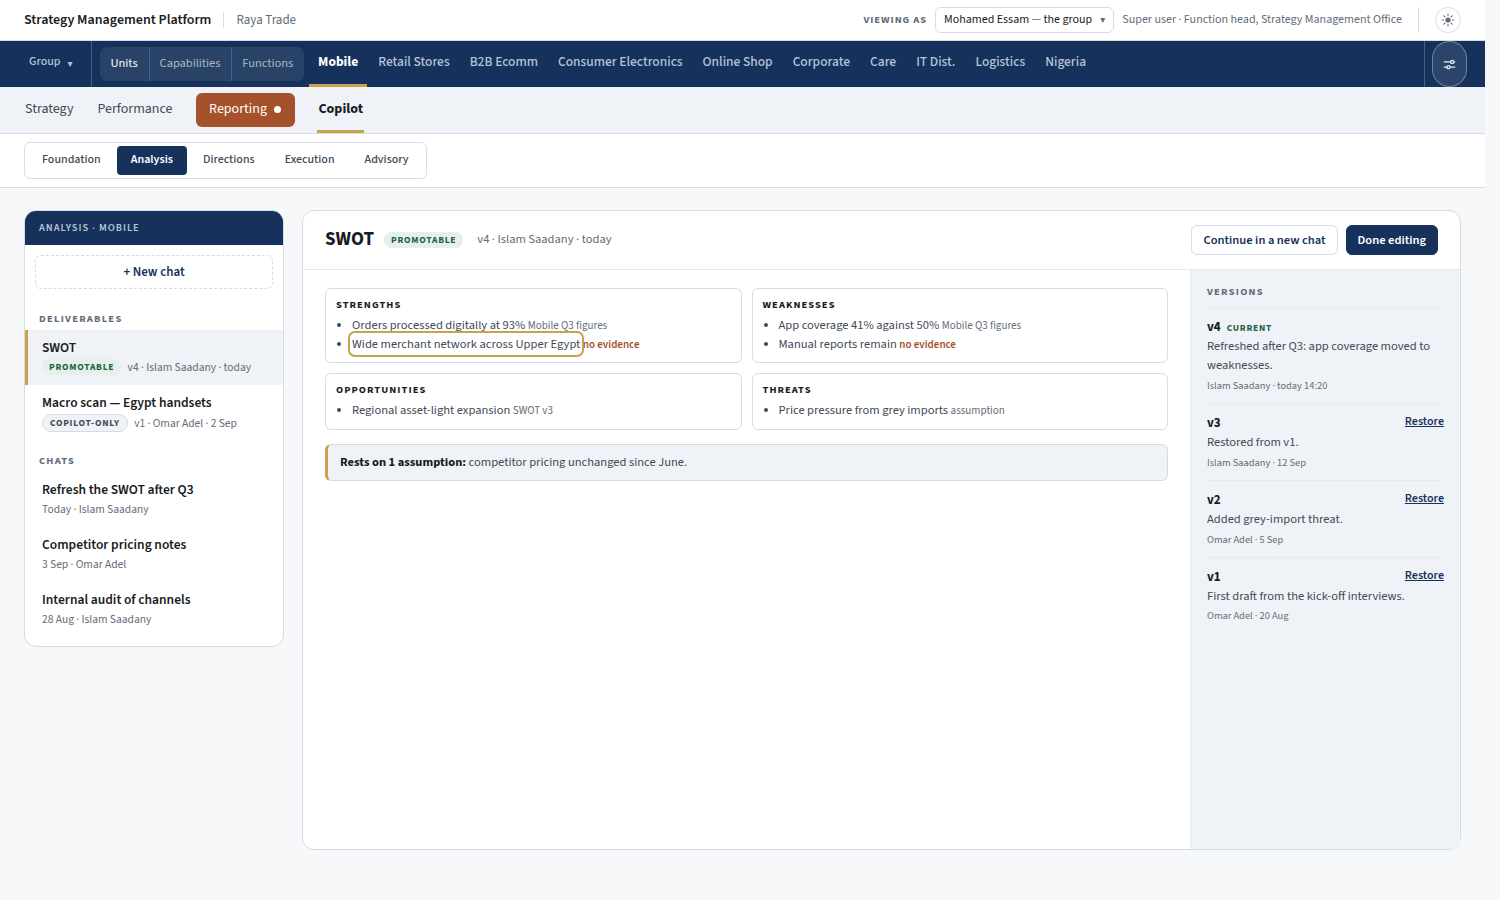
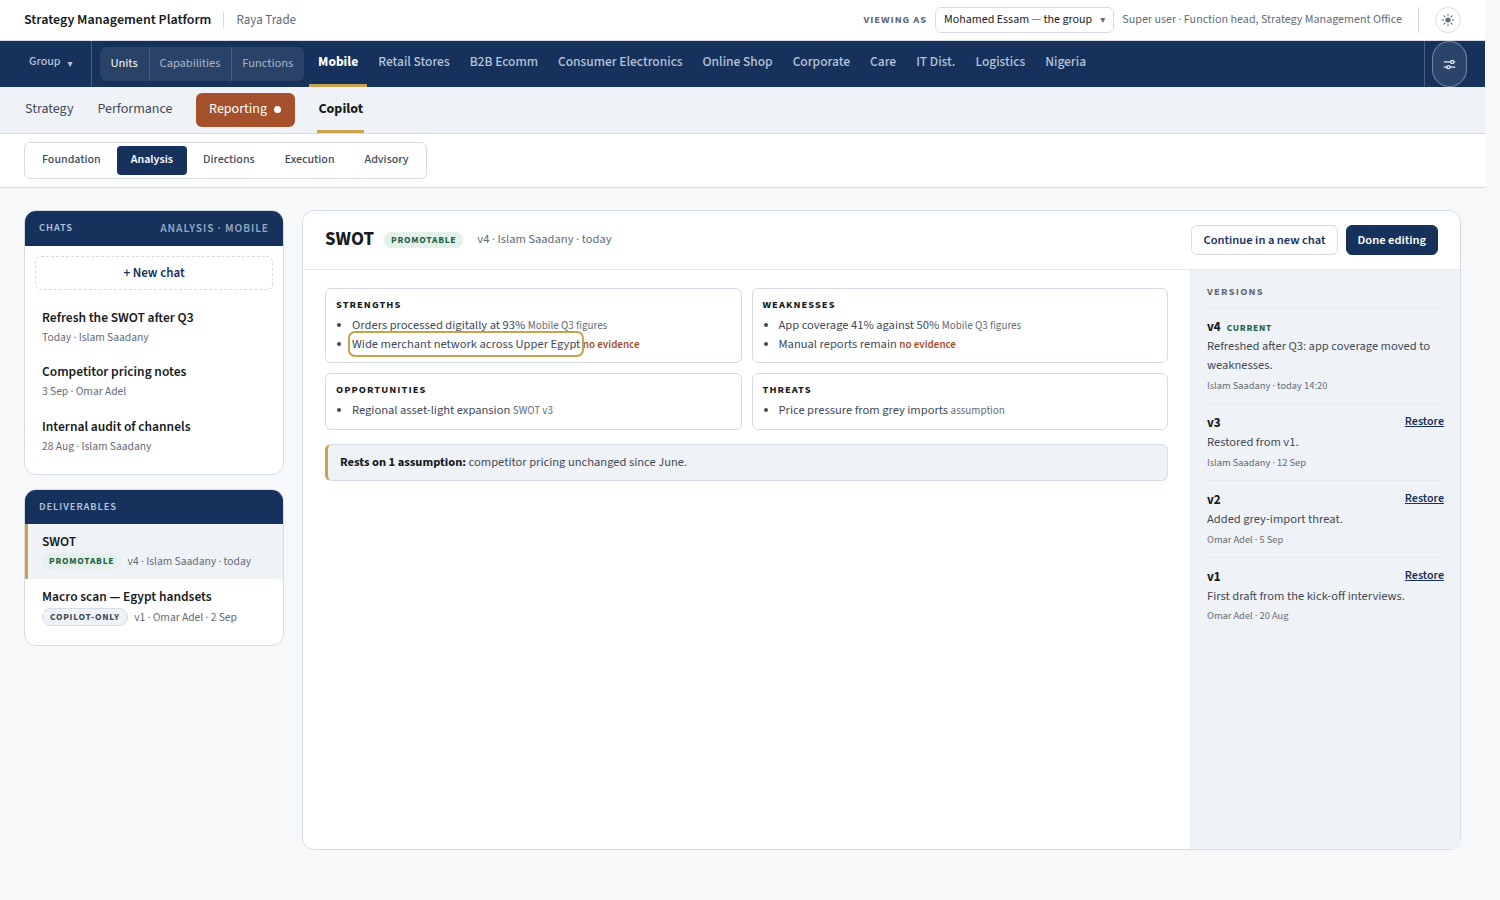
Copilot mockup: chats and deliverables as two stacked rails
Claude-Session: https://claude.ai/code/session_01RUvbxDSiL7E9pQNKaLZGhX

Changed region(s): [[0.0, 0.3422, 0.2147, 0.7156], [0.0307, 0.2489, 0.184, 0.3111]]

diff --git a/design-mockups/copilot/2026-09-30_copilot-tab.html b/design-mockups/copilot/2026-09-30_copilot-tab.html
@@ -28,7 +28,7 @@ ul{margin:0;padding-left:20px}li{margin:3px 0}
 
 <section>
  <h2><span class="num">1</span>A new chat is an empty box</h2>
- <p><b>Copilot</b> joins the row after Reporting. Inside it are the five sections: Foundation, Analysis, Directions, Execution and Advisory. On the left is that section's shelf for this place: deliverables first, then chats. The chat itself is empty. The one line above it says what the AI can see for Mobile, and the <b>i</b> gives the detail on hover.</p>
+ <p><b>Copilot</b> joins the row after Reporting. Inside it are the five sections: Foundation, Analysis, Directions, Execution and Advisory. On the left are two rails for this section and place: <b>Chats</b> on top, with the <b>+ New chat</b> button, and <b>Deliverables</b> below it. The chat itself is empty. The one line above it says what the AI can see for Mobile, and the <b>i</b> gives the detail on hover.</p>
  <figure><img src="shots/1-new-chat.png" alt="An empty new chat in Mobile's Copilot, Analysis section"></figure>
  <div class="note">On the live platform, Insights sits between Reporting and Copilot. It doesn't show here because this shot is the offline copy.</div>
 </section>
@@ -65,7 +65,7 @@ ul{margin:0;padding-left:20px}li{margin:3px 0}
 
 <section>
  <h2><span class="num">7</span>At the group, the shelf is organised by place</h2>
- <p>The group has its own Copilot for cross-unit work. Its shelf groups deliverables under the place they belong to, and work made by a client's own person carries a <b>Client</b> mark beside the author's name.</p>
+ <p>The group has its own Copilot for cross-unit work. Its Deliverables rail groups deliverables under the place they belong to, and work made by a client's own person carries a <b>Client</b> mark beside the author's name.</p>
  <figure><img src="shots/7-group.png" alt="The group's Execution shelf grouped by Mobile, Retail Stores and Finance"></figure>
 </section>
 

diff --git a/design-mockups/copilot/shots.py b/design-mockups/copilot/shots.py
@@ -9,6 +9,8 @@ INIT = "try{sessionStorage.setItem('smp.welcome.done','1');sessionStorage.setIte
 
 CSS = r"""
 .cop-split{display:grid;grid-template-columns:260px minmax(0,1fr);gap:18px;align-items:start}
+.cop-railcol{display:flex;flex-direction:column;gap:14px;min-width:0;width:260px}
+.cop-railcol > .cop-rail{width:100%;max-width:none;box-sizing:border-box;position:static;max-height:none}
 .cop-rail{background:var(--surface);border:1px solid var(--line);border-radius:var(--r-md);overflow:hidden}
 .cop-rail .rhead{display:flex;justify-content:space-between;align-items:center}
 .cop-new{margin:10px;display:block;width:calc(100% - 20px);text-align:center;border:1px dashed var(--line);border-radius:var(--r-sm);padding:7px;font:600 13px var(--sans);color:var(--stone);background:var(--surface)}
@@ -99,9 +101,22 @@ def page(p, unit="mobile", h=1000):
 
 SECS = ["Foundation","Analysis","Directions","Execution","Advisory"]
 
+def two_rails(rail):
+    # One builder string -> two stacked rails: Chats on top, Deliverables below.
+    import re
+    head, rest = rail.split('<div class="cop-gh">Deliverables</div>', 1)
+    dels, chats = rest.split('<div class="cop-gh">Chats</div>', 1)
+    where = re.search(r'<span class="rhl">(.*?)</span>', head).group(1)
+    new = re.search(r'<button class="cop-new".*?</button>', head).group(0)
+    tag = '<span style="font:600 11.5px var(--sans);opacity:.8">' + where + '</span>'
+    return ('<div class="cop-railcol">'
+      '<div class="cop-rail rail"><div class="rhead"><span class="rhl">Chats</span>' + tag + '</div>' + new + chats + '</div>'
+      '<div class="cop-rail rail"><div class="rhead"><span class="rhl">Deliverables</span></div>' + dels + '<div style="height:10px"></div></div>'
+      '</div>')
+
 def draw(pg, sel, rail, pane):
     pg.evaluate(SETUP, [CSS, SECS, sel, None])
-    pg.evaluate("""([r,p])=>{document.getElementById('panel').innerHTML='<div class="cop-split"><div class="cop-rail rail">'+r+'</div><div class="cop-pane">'+p+'</div></div>'}""", [rail, pane])
+    pg.evaluate("""([r,p])=>{document.getElementById('panel').innerHTML='<div class="cop-split">'+r+'<div class="cop-pane">'+p+'</div></div>'}""", [two_rails(rail), pane])
     pg.wait_for_timeout(250)
 
 MOBILE_CTX = '<span class="i" title="What the chat can see">i</span>Mobile &middot; 4 pillars &middot; 20 key measures &middot; Q3 reported &middot; 2 measures off track'
@@ -230,7 +245,7 @@ with sync_playwright() as p:
     pg = page(b, "group")
     pg.evaluate(SETUP, [CSS, SECS, "Execution", None])
     pg.evaluate("""([r,p])=>{const sec=document.querySelector('.secseg'); if(!sec){const t=document.getElementById('subtabs'); t.insertAdjacentHTML('afterend','');}
-      document.getElementById('panel').innerHTML='<div class="cop-split"><div class="cop-rail rail">'+r+'</div><div class="cop-pane">'+p+'</div></div>'}""",
-      [rail_grp, '<div class="cop-ctx"><span class="i">i</span>The group &middot; 10 units &middot; 8 functions &middot; Q3 reported by 9 of 18</div>' + head + tbl])
+      document.getElementById('panel').innerHTML='<div class="cop-split">'+r+'<div class="cop-pane">'+p+'</div></div>'}""",
+      [two_rails(rail_grp), '<div class="cop-ctx"><span class="i">i</span>The group &middot; 10 units &middot; 8 functions &middot; Q3 reported by 9 of 18</div>' + head + tbl])
     pg.wait_for_timeout(300)
     pg.screenshot(path=str(OUT/"7-group.png"), clip={"x":0,"y":0,"width":1500,"height":900}); pg.close()
